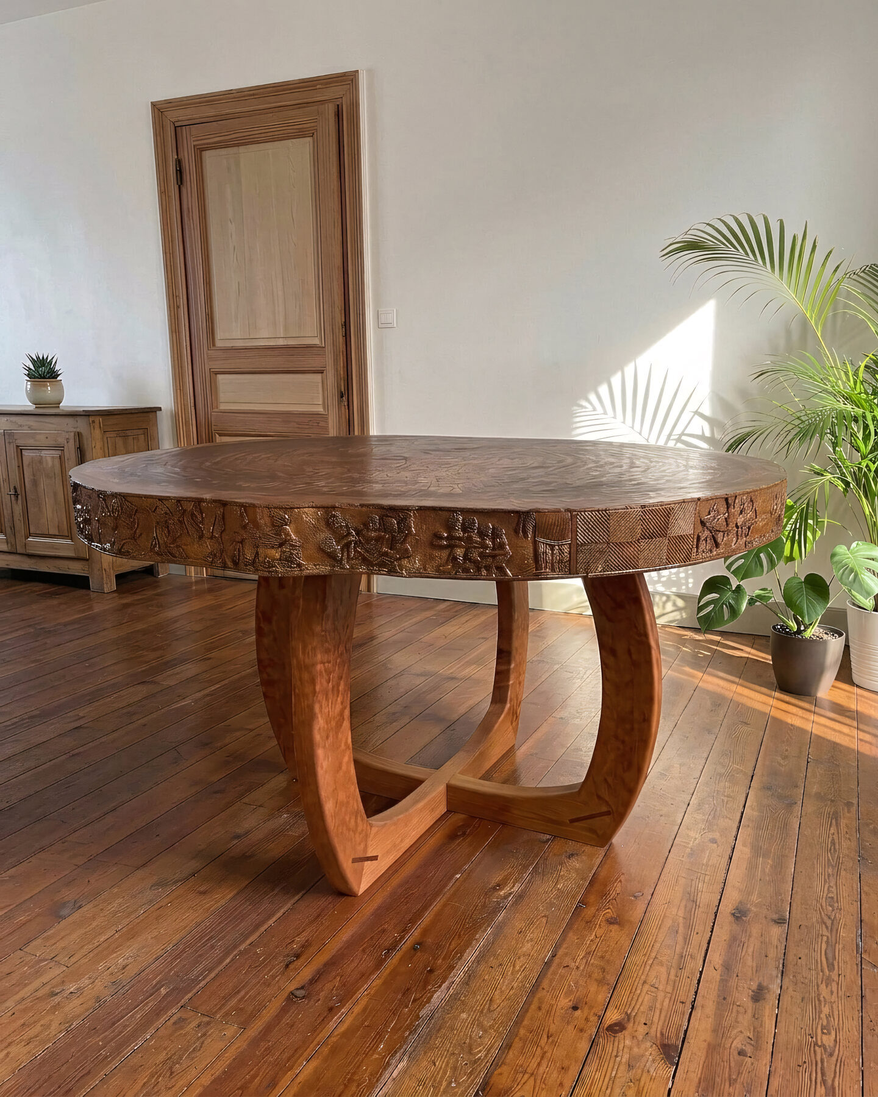
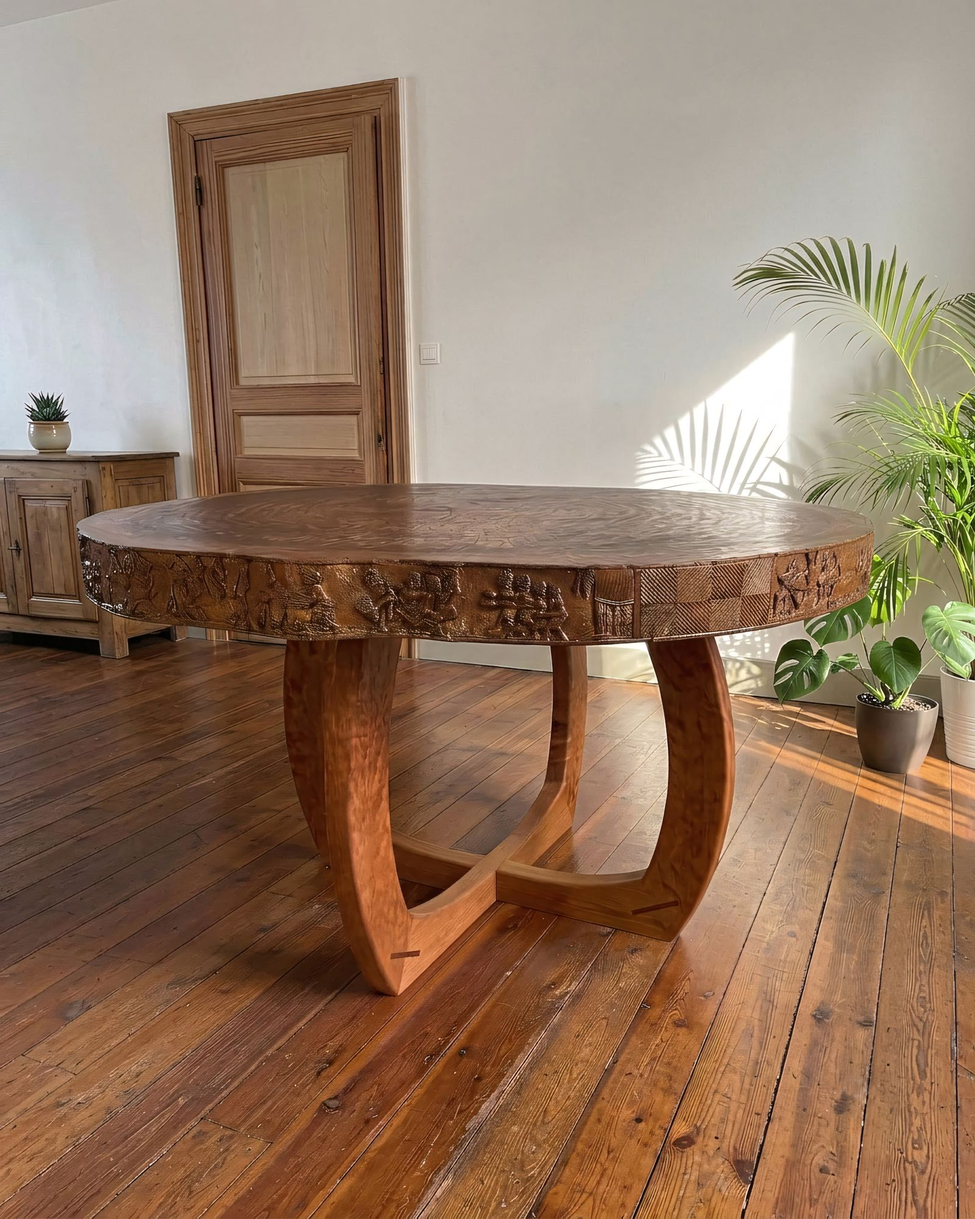
Consignes du projet Lemovices : photos 4:5 / 5:4, cadres des fiches, merbau
- Chess Set Flamma : cadre du plateau en merbau (FR/EN/ES, texte et matières).
- Photos des pièces refaites depuis _Portfolio/<famille>/<pièce>/4x5 et 5x4
  (2000 px, JPEG ~80) ; vue d'ensemble 5:4 pour Credenza, Levitas, Industria,
  Memoria ; Levitas n'a plus que sa vue d'ensemble ; Flamma inchangé.
- CSS : vignettes en 4:5 (cover) ; photos des fiches en 4:5, .wide en 5:4,
  .free (forme d'origine) pour une photo pas encore recadrée.

Claude-Session: https://claude.ai/code/session_01THfShzdrcJWa1Aq31LGvkY

Changed region(s): [[0.625, 0.4667, 0.7812, 0.5289], [0.9375, 0.3422, 1.0, 0.4356], [0.6562, 0.9644, 0.6875, 0.9956]]

diff --git a/style.css b/style.css
@@ -210,8 +210,10 @@ button { font: inherit; color: inherit; background: none; border: 0; padding: 0;
 .frame img { width: 100%; height: 100%; object-fit: cover; transition: transform 1.2s var(--ease), opacity .6s; }
 /* Vignettes des pièces et des étapes : photo entière, jamais coupée,
    posée en bas d'un cadre carré (les noms restent alignés) */
-.card .frame, .step .frame { aspect-ratio: 1 / 1; background: transparent; }
-.card .frame img, .step .frame img { object-fit: contain; object-position: center bottom; }
+.card .frame { aspect-ratio: 4 / 5; }
+.card .frame img { object-fit: cover; }
+.step .frame { aspect-ratio: 1 / 1; background: transparent; }
+.step .frame img { object-fit: contain; object-position: center bottom; }
 .card a:hover .frame img, .card a:focus-visible .frame img,
 .mo-item:hover img, .fiche-photo:hover img, .step:hover img { transform: scale(1.045); }
 .card-name {
@@ -312,8 +314,11 @@ button { font: inherit; color: inherit; background: none; border: 0; padding: 0;
 .fiche { padding-top: calc(var(--header-h) + clamp(24px, 4vw, 56px)); }
 .fiche-grid { display: grid; grid-template-columns: minmax(0, 7fr) minmax(0, 5fr); gap: clamp(32px, 5vw, 96px); align-items: start; }
 .fiche-photos { min-width: 0; display: grid; grid-template-columns: minmax(0, 1fr); gap: clamp(12px, 1.6vw, 24px); }
-.fiche-photo { display: block; width: 100%; overflow: hidden; background: var(--soft); cursor: zoom-in; }
-.fiche-photo img { width: 100%; transition: transform 1.2s var(--ease); }
+.fiche-photo { display: block; width: 100%; aspect-ratio: 4 / 5; overflow: hidden; background: var(--soft); cursor: zoom-in; }
+.fiche-photo.wide { aspect-ratio: 5 / 4; } /* vue d'ensemble d'un meuble long */
+.fiche-photo.free { aspect-ratio: auto; } /* photo pas encore au format : forme d'origine */
+.fiche-photo.free img { height: auto; }
+.fiche-photo img { width: 100%; height: 100%; object-fit: cover; transition: transform 1.2s var(--ease); }
 .fiche-photos .fiche-photo:first-child img { view-transition-name: piece-hero; }
 .fiche-info { position: sticky; top: calc(var(--header-h) + 32px); display: grid; gap: 22px; }
 .back { font-size: 11px; letter-spacing: .24em; text-transform: uppercase; text-decoration: none; color: var(--muted); }

diff --git a/app.js b/app.js
@@ -349,6 +349,16 @@
           <a class="pn next" href="#/${esc(next.slug)}"><span class="eyebrow">${esc(ui('suivante'))} →</span><strong>${esc(next.nom)}</strong></a>
         </nav>
       </article>`;
+    // cadre selon le format : 4:5 par défaut, .wide pour une vue d'ensemble 5:4,
+    // .free (forme d'origine) pour une photo pas encore recadrée
+    $$('.fiche-photo img', pieceView).forEach((img) => {
+      const mark = () => {
+        const r = img.naturalWidth / img.naturalHeight;
+        img.parentElement.classList.toggle('wide', Math.abs(r - 1.25) < 0.03);
+        img.parentElement.classList.toggle('free', Math.abs(r - 0.8) >= 0.03 && Math.abs(r - 1.25) >= 0.03);
+      };
+      if (img.complete && img.naturalWidth) mark(); else img.addEventListener('load', mark, { once: true });
+    });
     const mo = $('.fiche-mo', pieceView);
     if (mo) fillStrip(mo);
     pieceView._photos = p.photos;
